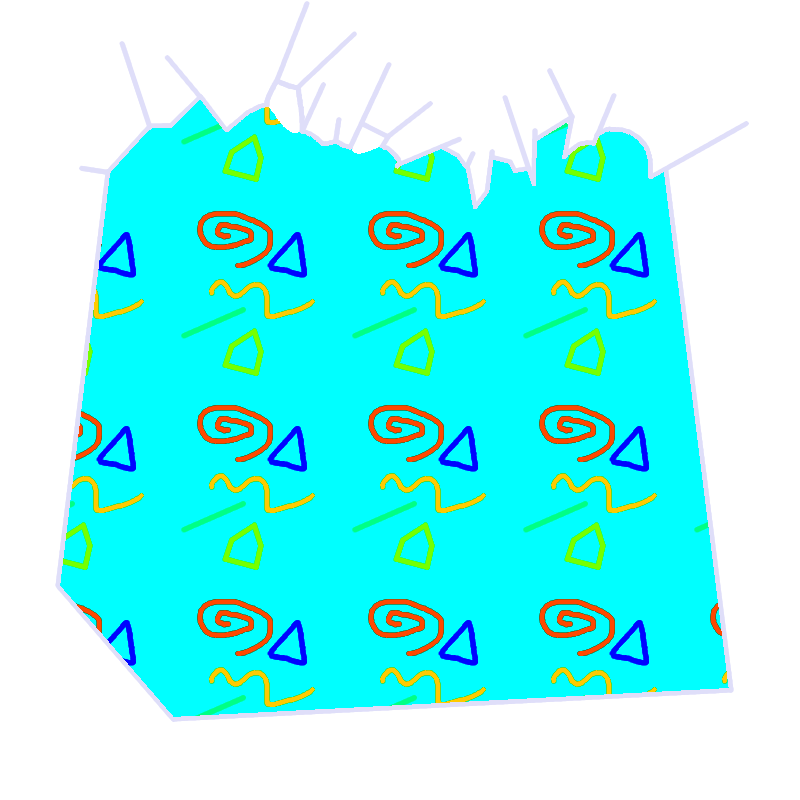
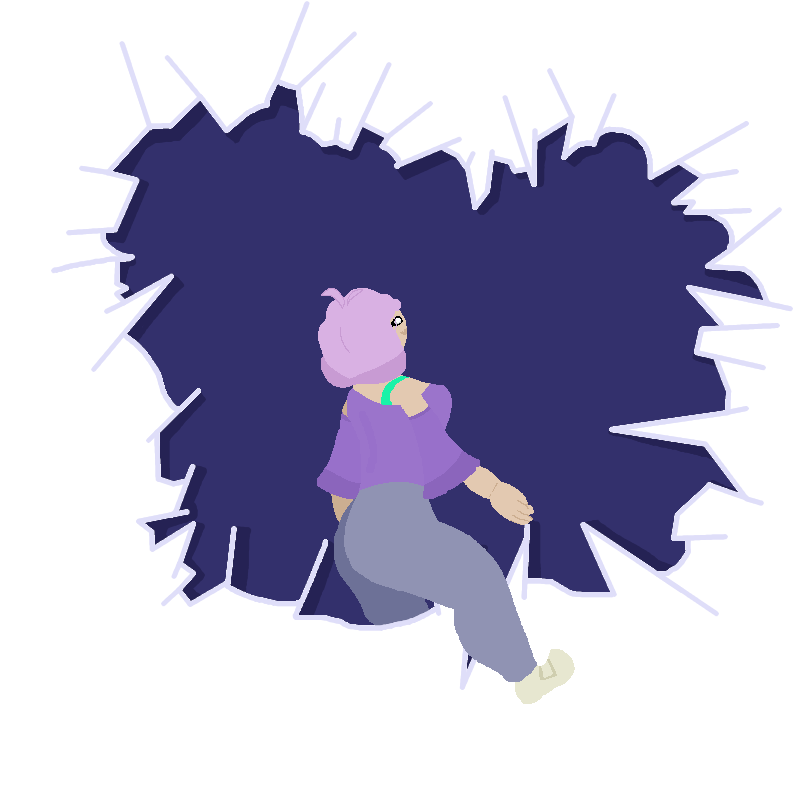
site exists now

diff --git a/Portfolio_Website/projects.html b/Portfolio_Website/projects.html
@@ -1,8 +1,53 @@
 <head>
+    <link rel="stylesheet" href="assets/css/index.css">
     <meta charset="UTF-8">
     <title>Contact</title>
     <link rel="icon" href="assets/images/favicon.png">
 </head>
 
-<a href="index.html">Home</a>
-<p>projects</p>
+<body>
+    <div >
+        <img id="overlay" src="assets/images/scanlines.png">
+    </div>
+    
+    <div class="navBar">
+        <p></p>
+        <a href="index.html"><img src="assets/images/favicon.png" height="80px"></a>
+        <a href="contact.html">Contact</a>
+        <a href="projects.html">Projects</a>
+        <a href="404.html">404</a>
+        <p></p>
+    </div>
+
+    <div class="projectContainer">
+        <div class="projectSectionTitle"><a href="https://github.com/G-2004"><img src="assets/images/Github_logo.png" height="100" width="100" alt="Github Logo"></a><a href="https://github.com/G-2004"><h3>Github</h3></a></div>
+        <div class="project">
+            <a href="https://github.com/G-2004/SWDV-HTML_Project"><img src="assets/images/SWDVGameSite.png"></a>
+            <a href="https://github.com/G-2004/SWDV-HTML_Project">SWDV Game dev Site</a>
+        </div>
+
+        <div class="projectSectionTitle"><a href="https://steamcommunity.com/profiles/76561198430522683/myworkshopfiles/"><img src="assets/images/Steam_Logo.png" height="100" width="100" alt="Github Logo"></a><a href="https://steamcommunity.com/profiles/76561198430522683/myworkshopfiles/"><h3>Steam Workshop</h3></a></div>
+        <div class="projectsSection">
+            <div class="project">
+                <a href="https://steamcommunity.com/sharedfiles/filedetails/?id=3589632161"><img src="https://images.steamusercontent.com/ugc/17389567589819448702/58F1C0E4F9774A0E3FA2631E63FFAD9A5B6DFF33/?imw=637&imh=358&ima=fit&impolicy=Letterbox&imcolor=%23000000&letterbox=true"></a>
+                <a href="https://steamcommunity.com/sharedfiles/filedetails/?id=3589632161">Mindscape Tower - Rivals of Aether Stage</a>
+            </div>
+            <div class="project">
+                <a href="https://steamcommunity.com/sharedfiles/filedetails/?id=3498063940"><img src="https://images.steamusercontent.com/ugc/12312003313549465975/99094F773ABA6AAFA1F441843E5F63E081730DDF/?imw=637&imh=358&ima=fit&impolicy=Letterbox&imcolor=%23000000&letterbox=true"></a>
+                <a href="https://steamcommunity.com/sharedfiles/filedetails/?id=3498063940">Rushwater PD - Rivals of Aether Stage</a>
+            </div>
+            <div class="project">
+                <a href="https://steamcommunity.com/sharedfiles/filedetails/?id=3495993556"><img src="https://images.steamusercontent.com/ugc/12327748263432566670/5354973D1BCCE27F077EAD9B58135066535975B4/?imw=637&imh=358&ima=fit&impolicy=Letterbox&imcolor=%23000000&letterbox=true"></a>
+                <a href="https://steamcommunity.com/sharedfiles/filedetails/?id=3495993556">Starlight - Rivals of Aether Character</a>
+            </div>
+            <div class="project">
+                <a href="https://steamcommunity.com/sharedfiles/filedetails/?id=3424624740"><img src="https://images.steamusercontent.com/ugc/41197344870153152/EC090D9E0853B276EB0C17AEA88D3D9693DFE5A8/?imw=637&imh=358&ima=fit&impolicy=Letterbox&imcolor=%23000000&letterbox=true"></a>
+                <a href="https://steamcommunity.com/sharedfiles/filedetails/?id=3424624740">Bunny Sorting Room - Rivals of Aether Stage</a>
+            </div>
+            <div class="project">
+                <a href="https://steamcommunity.com/sharedfiles/filedetails/?id=3298375251"><img src="https://images.steamusercontent.com/ugc/2468619783536047450/89149C7FE5895F551BC390E318CCF5B4520D3EF1/?imw=637&imh=358&ima=fit&impolicy=Letterbox&imcolor=%23000000&letterbox=true"></a>
+                <a href="https://steamcommunity.com/sharedfiles/filedetails/?id=3298375251">Inspector's Booth - Rivals of Aether Stage</a>
+            </div>
+        </div>
+    </div>
+</body>

diff --git a/Portfolio_Website/assets/css/index.css b/Portfolio_Website/assets/css/index.css
@@ -8,6 +8,11 @@ body{
     background-size: cover;
     background-repeat: no-repeat;
 }
+h3{
+    color: aliceblue;
+    font-size: 24pt;
+}
+/*///////////////////////////////////////////////////////////////////////////////*/
 
 #overlay{
     z-index: 2;
@@ -19,9 +24,72 @@ body{
     position: fixed;
     background-attachment: fixed;
     background-size: cover;
+    pointer-events: none
+}
+img#overlay{
+    opacity: 0.4;
 }
 
+.navBar{
+    display: flex;
+    width: 100%;
+    justify-content: space-between;
+    align-items: center;
+    background-color: aliceblue;
+    font-size: 22pt;
+}
+.center{
+    display: flex;
+    align-content: center;
+    justify-content: center;
+    align-items: center;
+
+}
 .foreground{
     position: relative;
     z-index: 10;
+}
+
+.projectSectionTitle{
+    margin-top: 60px;
+    margin-bottom: 15px;
+    display: flex;
+    gap: 20px;
+}
+.projectContainer{
+    margin-left: 100px;
+    margin-right: 100px;
+}
+.projectsSection{
+    display: flex;
+    gap: 30px;
+}
+.project{
+    display: grid;
+    width: 300px;
+    height: 200px;
+    justify-content: center;
+    grid-template-columns: 300px;
+    grid-template-rows: 150px 50px;
+    background-color: aliceblue;
+    border-radius: 10px;
+    justify-items: stretch;
+    align-items: stretch;
+    transition: transform 0.2s ease;
+}
+.project a {
+    display: block;
+    text-align: center;
+}
+.project:hover{
+    transform: scale(1.05);
+}
+.project a:nth-child(2) {
+    align-self: center;
+}
+
+.project img{
+    width: 300px;
+    height: 150px;
+    border-radius: 10px 10px 0 0;
 }

diff --git a/Portfolio_Website/contact.html b/Portfolio_Website/contact.html
@@ -1,11 +1,20 @@
 <head>
+    <link rel="stylesheet" href="assets/css/index.css">
     <meta charset="UTF-8">
     <title>Contact</title>
     <link rel="icon" href="assets/images/favicon.png">
 </head>
 
-<a href="index.html">Home</a>
-<p>contact</p>
-<footer>
-    <a href="https://github.com/G-2004"><img src="assets/images/Github_logo.png" height="50" width="50" alt="Github Logo"></img>Github</a>
-</footer>
+<body>
+    <div class="navBar">
+        <p></p>
+        <a href="index.html"><img src="assets/images/favicon.png" height="80px"></a>
+        <a href="contact.html">Contact</a>
+        <a href="projects.html">Projects</a>
+        <a href="404.html">404</a>
+        <p></p>
+    </div>
+
+    <a href="mailto:gzgarza744@gmail.com">Email</a>
+    <a href="tel:209-689-5401">Phone</a>
+</body>

diff --git a/Portfolio_Website/index.html b/Portfolio_Website/index.html
@@ -6,12 +6,18 @@
 </head>
 
 <body>
+    <div class="navBar">
+        <p></p>
+        <a href="index.html"><img src="assets/images/favicon.png" height="80px">
+        <a href="contact.html">Contact</a>
+        <a href="projects.html">Projects</a>
+        <a href="404.html">404</a>
+        <p></p>
+    </div>
     <p>welcome</p>
-    <a href="contact.html">Contact</a>
-    <a href="projects.html">Projects</a>
-    <a href="404.html">404</a>
+    
 
-    <div>
+    <div class="center">
         <img class="foreground" src="assets/images/cracktest.png">
     </div>
 
